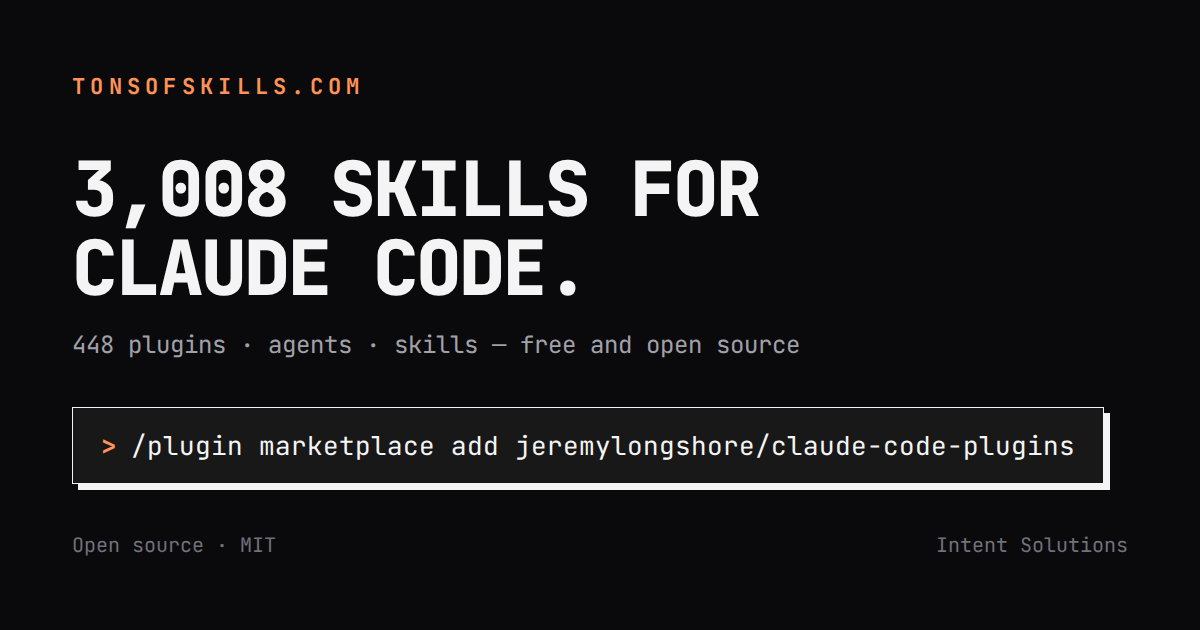
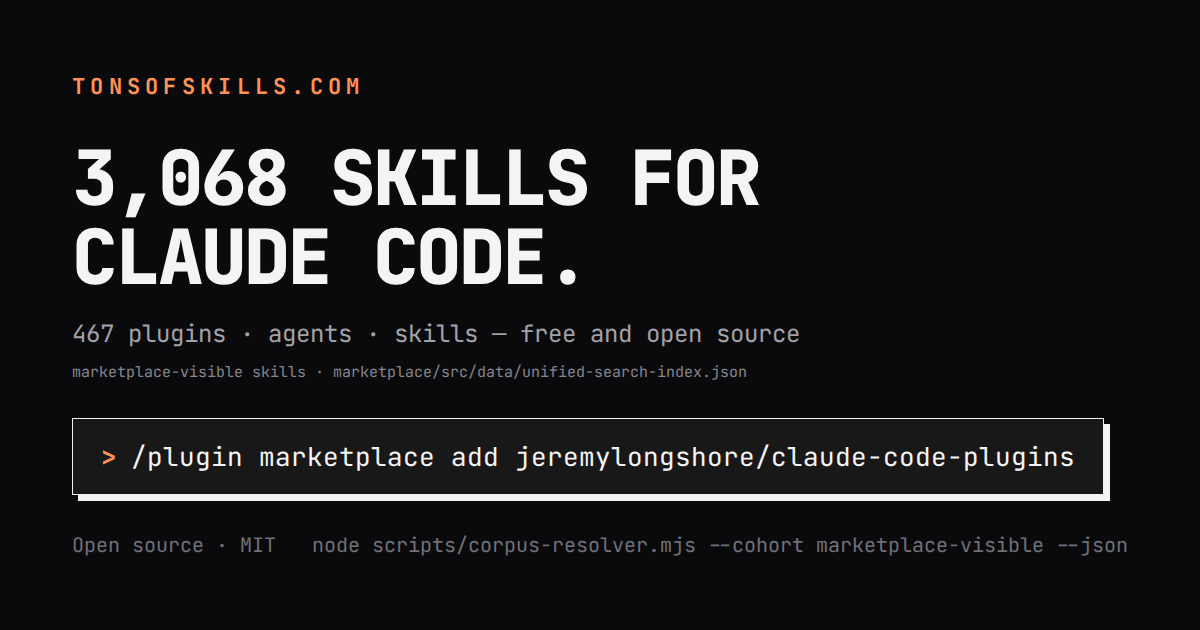
fix(marketplace): govern social card count cohort (#1244)
* fix(marketplace): govern social card count cohort

* fix(measurement): link social image AAR in scorecard

---------

diff --git a/000-docs/761-AA-AACR-epic-1-social-image-count-cohort.md b/000-docs/761-AA-AACR-epic-1-social-image-count-cohort.md
@@ -1,0 +1,40 @@
+# Social Image Count Cohort — After-Action Review
+
+- **Date:** 2026-08-18
+- **Authority:** Blueprint 727 §13, Epic 1 bead 1.6
+- **Bead:** `claude-hz8f.13`
+- **Scope:** the deferred `scripts/generate-og-image.mjs` social-image surface only
+- **Status:** implementation slice; merge fields are recorded in Beads/Dolt after review
+
+## Outcome
+
+The generated social card now labels its embedded totals as the
+`marketplace-visible` cohort and visibly includes the canonical source plus the
+reproduction command. Its metadata sidecar records the same contract. Generation
+fails closed when the unified-search source is unreadable or its totals are not
+non-negative integers; `--check` refuses a missing or contradictory cohort
+contract. No plugin, skill, mirror, `.source.json`, registry, credential,
+contributor, Plane, branch-rule, release, or production state changed.
+
+## Evidence
+
+| Gate                         | Result                                                              |
+| ---------------------------- | ------------------------------------------------------------------- |
+| Social-card contract tests   | PASS — 4/4, including two red proofs                                |
+| Published-count registry     | PASS — `ALLOW cohorts=5 enforced=6 deferred=49 discovered=51`       |
+| Social-card generation       | PASS — 1,200×630 PNG; 3,068 marketplace-visible skills; 467 plugins |
+| Social-card structural check | PASS — valid PNG, dimensions, metadata cohort/source/command        |
+| Visual inspection            | PASS — cohort, source, and resolver command are legible             |
+
+## Rollback
+
+Revert the focused generator, sidecar, registry, test, index, scorecard, and
+changelog changes, then rerun the contract test, published-count checker, and
+`node scripts/generate-og-image.mjs --check`. The generated PNG is reproducible
+from the canonical index and is not hand-edited.
+
+## Boundaries and follow-up
+
+Entity-local cards, vendor-pack pages, learning aggregates, research snapshots,
+active docs, and README counts remain separately deferred E1.6 surfaces. This
+slice does not claim E1.6 completion.

diff --git a/000-docs/000-INDEX.md b/000-docs/000-INDEX.md
@@ -5,7 +5,7 @@
 > **Generated — do not edit.** Stage newly filed documents, then run
 > `node scripts/generate-docs-index.mjs`.
 
-Covers the **tracked** documentation estate (200 files). Local-only working
+Covers the **tracked** documentation estate (201 files). Local-only working
 documents are counted in doc 720 but deliberately not listed here. The inventory excludes only this
 index and `000-docs/.gitignore`.
 
@@ -182,6 +182,7 @@ index and `000-docs/.gitignore`.
 - [758-AA-AACR-plugin-catalog-drift-gate.md](758-AA-AACR-plugin-catalog-drift-gate.md)
 - [759-AA-AACR-unified-search-drift-gate.md](759-AA-AACR-unified-search-drift-gate.md)
 - [760-AA-AACR-epic-1-cowork-manifest-contract.md](760-AA-AACR-epic-1-cowork-manifest-contract.md)
+- [761-AA-AACR-epic-1-social-image-count-cohort.md](761-AA-AACR-epic-1-social-image-count-cohort.md)
 - [20260131-RL-REPT-claude-code-plugins-v4.14.0.md](20260131-RL-REPT-claude-code-plugins-v4.14.0.md)
 - [6767-a-SPEC-DR-STND-claude-code-plugins-standard.md](6767-a-SPEC-DR-STND-claude-code-plugins-standard.md)
 - [6767-b-SPEC-DR-STND-claude-skills-standard.md](6767-b-SPEC-DR-STND-claude-skills-standard.md)

diff --git a/CHANGELOG.md b/CHANGELOG.md
@@ -1,5 +1,11 @@
 # Changelog
 
+## 2026-08-18
+
+- **fix(marketplace):** label generated social-card counts with the
+  `marketplace-visible` cohort, canonical source, and reproducible resolver
+  command; reject unreadable or malformed count inputs.
+
 All notable changes to this project will be documented in this file.
 
 The format is based on [Keep a Changelog](https://keepachangelog.com/en/1.0.0/),
